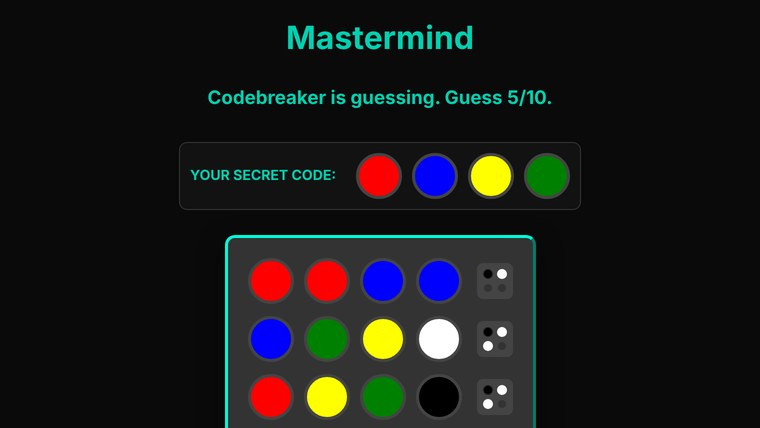
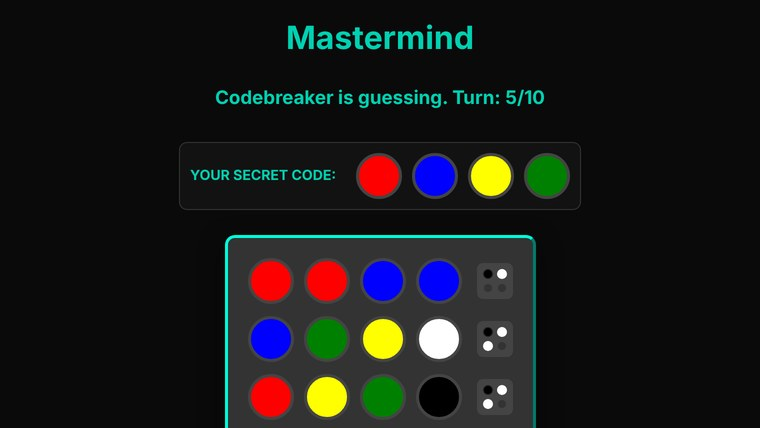
Mastermind: turn counter in singleplayer, "Turn" wording for Codemaker
- Singleplayer now has a status line under the title, styled like the
  multiplayer one: "Crack the code! Turn: N/10", updated after every
  guess, then "🏆 You cracked the code!" or "❌ Game over! Out of turns."
  at the end, and back to Turn: 1/10 on Play Again.
- Multiplayer Codemaker: "Codebreaker is guessing. Turn: N/10", matching
  the Codebreaker's "Crack the code! Turn: N/10".
- Card pictures retaken: Singleplayer is now a real singleplayer game
  (it was a multiplayer screenshot), Multiplayer shows the new wording.

Claude-Session: https://claude.ai/code/session_01MNEAyjzWwttQUNML96NQD8

Changed region(s): [[0.2724, 0.2126, 0.7263, 0.2734]]

diff --git a/mastermind/singleplayer/index.html b/mastermind/singleplayer/index.html
@@ -46,6 +46,8 @@ layout: null
   h2 { font-size: 24px; color: #00d1b2; }
   .modal { position: fixed; top: 0; left: 0; width: 100%; height: 100%; background: rgba(0,0,0,0.8); display: flex; align-items: center; justify-content: center; z-index: 10; }
   .modal-content { background: #161616; padding: 25px; border-radius: 8px; text-align: center; max-width: 360px; border: 2px solid #00d1b2; position: relative; }
+  /* Same look as the status line on the multiplayer page. */
+  #status-text { color: #00d1b2; font-size: 1.17em; font-weight: bold; margin: 1em 0; }
   .game-container { position: relative; display: inline-block; margin-top: 10px; }
   .board { background: #333; padding: 20px; border-radius: 10px; border: 3px outset #00d1b2; box-shadow: 0 8px 24px rgba(0,0,0,0.5); }
   .row { position: relative; display: flex; align-items: center; justify-content: space-between; margin-bottom: 12px; opacity: 1; transition: filter 0.3s; }
@@ -140,6 +142,7 @@ layout: null
 </div>
 
 <h1>Mastermind</h1>
+<p id="status-text" aria-live="polite">Crack the code! Turn: 1/10</p>
 <!-- Floating Help Icon -->
 <button id="help-btn" onclick="showRules()">?</button>
 
@@ -227,7 +230,11 @@ layout: null
     }
   }
 
+  function setStatus(text) {
+    document.getElementById("status-text").innerText = text;
+  }
   function activateRow() {
+    setStatus(`Crack the code! Turn: ${turn + 1}/10`);
     const row = document.getElementById(`row-${turn}`);
     row.classList.add("active");
     currentGuess = Array(4).fill(null);
@@ -279,9 +286,11 @@ layout: null
     oldRow.classList.remove("active");
     Array.from(oldRow.querySelectorAll('.peg')).forEach(p => { p.onclick = null; p.classList.remove("selected"); });
     if (black === 4) {
+      setStatus("🏆 You cracked the code!");
       showEndModal("🏆 Perfect!", "You cracked the secret code!", secret);
       endGame();
     } else if (++turn >= 10) {
+      setStatus("❌ Game over! Out of turns.");
       showEndModal("❌ Game Over", "The secret code was:", secret);
       endGame();
     } else {

diff --git a/mastermind/multiplayer/index.html b/mastermind/multiplayer/index.html
@@ -368,7 +368,7 @@ layout: null
               secret = lobby.secret;
               if (!gameOver) {
                 document.getElementById("status-text").innerText = turn > 0
-                  ? `Codebreaker is guessing. Guess ${turn + 1}/10.`
+                  ? `Codebreaker is guessing. Turn: ${turn + 1}/10`
                   : "Secret code confirmed. Waiting for Codebreaker to guess...";
                 disableInput();
               }
